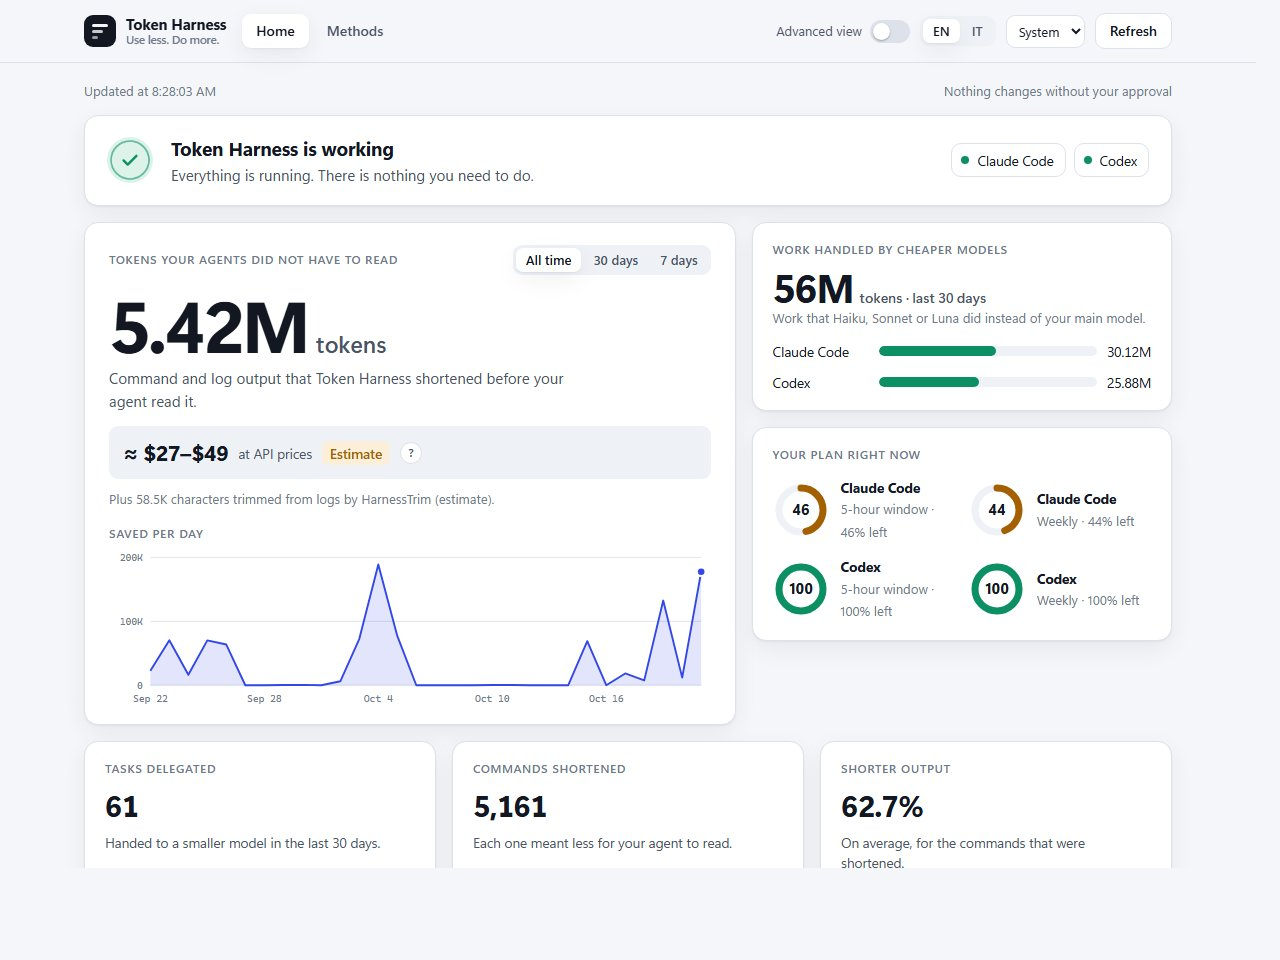
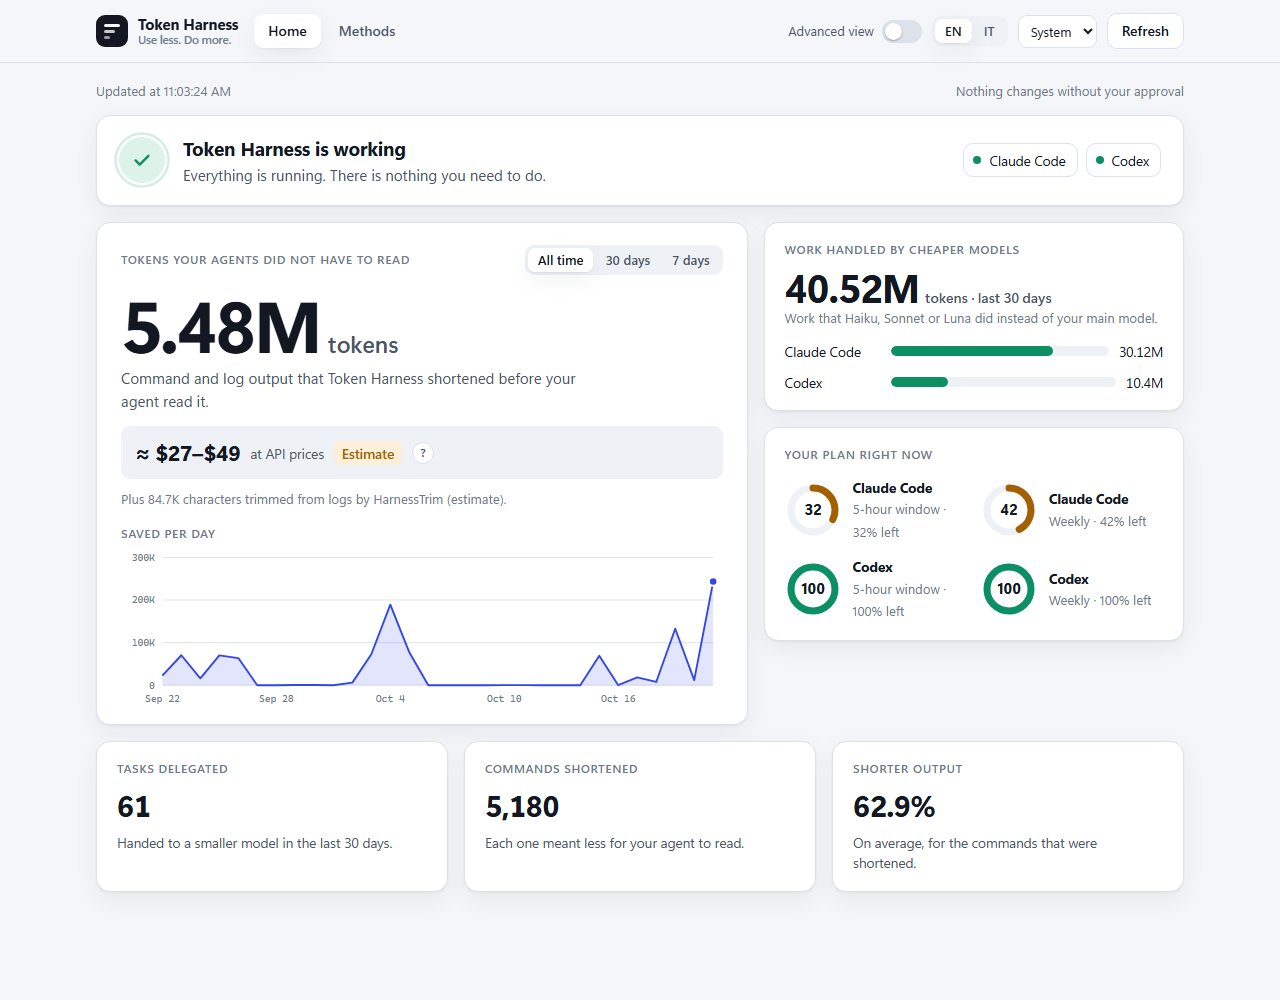
docs: refresh the Home and Methods screenshots and mention the loading screen

diff --git a/README.md b/README.md
@@ -100,7 +100,9 @@ global npm installation.
    setup exists; “runtime observed” means a qualifying callback or operation was actually recorded.
 
 The app has three tabs: **Home**, **Methods** and, with **Advanced view** on, **Details**. The header
-also has an EN/IT language switch, a theme select and **Refresh**.
+also has an EN/IT language switch, a theme select and **Refresh**. While the first read runs, a
+loading screen lists each check as it finishes. Add `#methods` or `#details` to the app URL to open
+that view directly.
 
 - **Home** shows tokens agents did not have to read (measured RTK output reduction, with a daily
   chart), tokens handled by cheaper models in the last 30 days (read locally from Claude Code and
